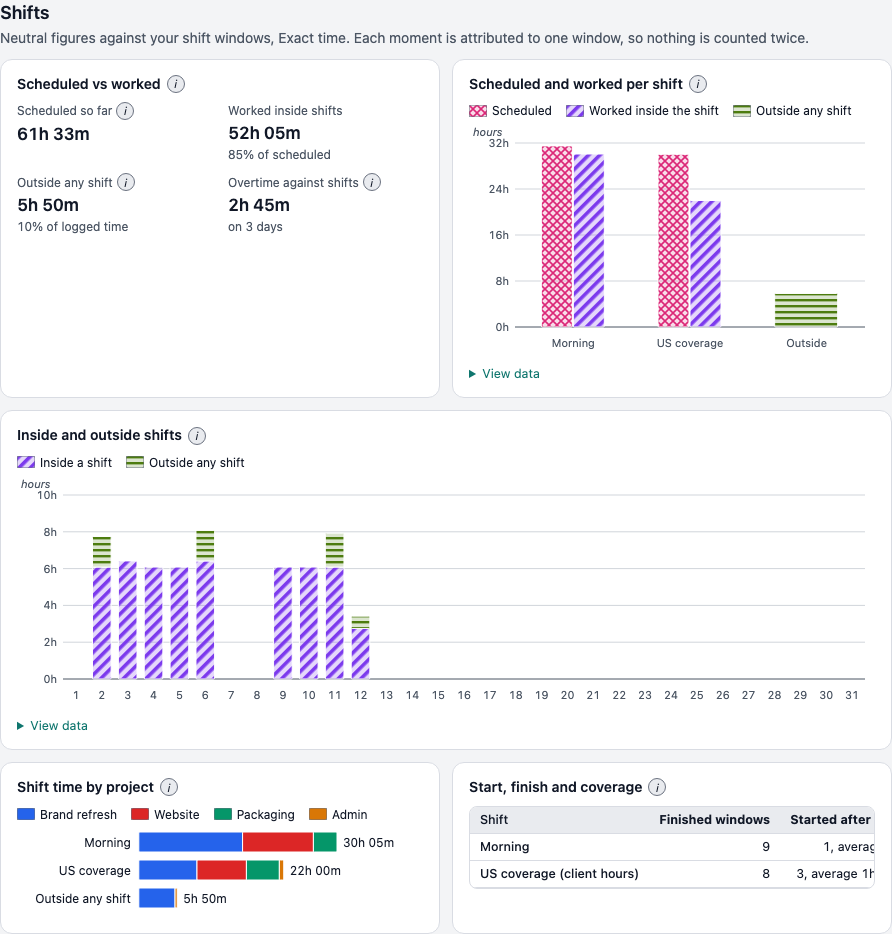
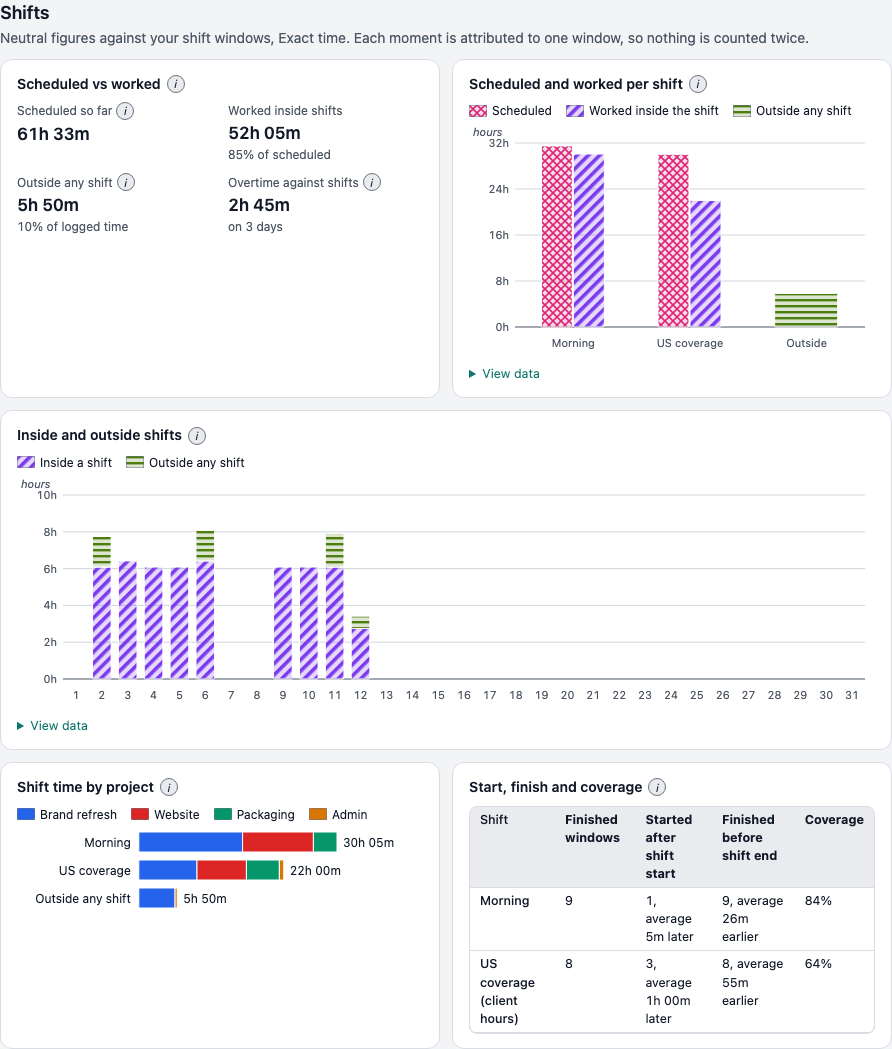
fix(analysis): make the map, pause chart and shift table readable
The map highlight is sampled at screen resolution and clipped to country
outlines. A pause is now a same-day gap, so the chart stays readable. Shift
change text respects the given clock, and screenshots stay out of evidence
folders unless ZWT_SHOT_DIR is set.

diff --git a/src/features/zones/maskDraw.ts b/src/features/zones/maskDraw.ts
@@ -1,9 +1,8 @@
 // Paints the zone highlights onto the map's canvas. Over land the colour is strong; over open water the
-// zone's (coarse) boundary tiles are only tinted, so they read as an area rather than as blocks.
-import { UNITS_PER_DEG } from './geo';
-import { GRID_NX, GRID_NY, GRID_STEP, type ZoneGrid } from './grid';
+// zone is only tinted. The mask is always sampled at screen resolution (never from the 0.5 degree grid),
+// so edges follow the real zone borders at every zoom instead of showing coarse squares.
 import { sampleZoneMask } from './sample';
-import { baseScale, geoToScreen, screenToGeo, type View } from './viewport';
+import { baseScale, type View } from './viewport';
 
 export interface MaskSpec {
   zone: string | null;
@@ -17,14 +16,15 @@ export interface PaintArgs {
   size: { w: number; h: number };
   dpr: number;
   view: View;
-  grid: ZoneGrid | null;
   land: Path2D | null;
   masks: readonly MaskSpec[];
 }
 
-/** From this zoom on, masks are sampled at screen resolution instead of read from the 0.5 degree grid. */
-export const SAMPLE_FROM_K = 3;
-const SAMPLE_STEP = 2;
+/** Sample spacing in CSS pixels: fine when zoomed in, a little coarser at world view to bound the per-frame cost. */
+/** Below this much land (CSS px squared) in view, the zone also gets its sea tint so it stays visible. */
+const MIN_LAND_AREA = 60;
+
+const sampleStep = (k: number): number => (k >= 2 ? 2 : 3);
 
 function newCanvas(w: number, h: number): HTMLCanvasElement {
   const c = document.createElement('canvas');
@@ -34,68 +34,49 @@ function newCanvas(w: number, h: number): HTMLCanvasElement {
 }
 
 export class MaskPainter {
-  private readonly gridLayers = new Map<string, HTMLCanvasElement>();
   private stencil: HTMLCanvasElement | null = null;
   private scratch: HTMLCanvasElement | null = null;
+  private clipped: HTMLCanvasElement | null = null;
+  private probe: HTMLCanvasElement | null = null;
   private sampled: HTMLCanvasElement | null = null;
 
-  clearCache(): void {
-    this.gridLayers.clear();
-  }
-
-  private gridLayer(grid: ZoneGrid, zone: string, color: string): HTMLCanvasElement | null {
-    const key = `${zone}|${color}`;
-    const hit = this.gridLayers.get(key);
-    if (hit) return hit;
-    const mask = grid.maskFor(zone);
-    if (!mask) return null;
-    const off = newCanvas(GRID_NX, GRID_NY);
-    const ctx = off.getContext('2d');
-    if (!ctx) return null;
-    ctx.putImageData(new ImageData(mask, GRID_NX, GRID_NY), 0, 0);
-    ctx.globalCompositeOperation = 'source-in';
-    ctx.fillStyle = color;
-    ctx.fillRect(0, 0, GRID_NX, GRID_NY);
-    const oldest = this.gridLayers.keys().next();
-    if (this.gridLayers.size >= 16 && !oldest.done) this.gridLayers.delete(oldest.value);
-    this.gridLayers.set(key, off);
-    return off;
+  /** Approximate painted area of `layer` in CSS pixels, measured on a copy shrunk four times. */
+  private landArea(layer: HTMLCanvasElement, dpr: number): number {
+    const w = Math.max(1, Math.ceil(layer.width / 4));
+    const h = Math.max(1, Math.ceil(layer.height / 4));
+    this.probe ??= newCanvas(w, h);
+    if (this.probe.width !== w) this.probe.width = w;
+    if (this.probe.height !== h) this.probe.height = h;
+    const pctx = this.probe.getContext('2d', { willReadFrequently: true });
+    if (!pctx) return Infinity;
+    pctx.setTransform(1, 0, 0, 1, 0, 0);
+    pctx.clearRect(0, 0, w, h);
+    pctx.drawImage(layer, 0, 0, w, h);
+    const px = pctx.getImageData(0, 0, w, h).data;
+    let alpha = 0;
+    for (let i = 3; i < px.length; i += 4) alpha += px[i] as number;
+    return (alpha / 255) * (16 / (dpr * dpr));
   }
 
   /** Draws the zone into `scratch` (CSS-pixel coordinates). Returns false when nothing could be drawn. */
   private drawZone(ctx: CanvasRenderingContext2D, a: PaintArgs, zone: string, color: string): boolean {
     const { size, view } = a;
+    const step = sampleStep(view.k);
     ctx.imageSmoothingEnabled = true;
     ctx.imageSmoothingQuality = 'high';
-    if (view.k >= SAMPLE_FROM_K) {
-      const m = sampleZoneMask(zone, view, size, SAMPLE_STEP);
-      this.sampled ??= newCanvas(m.w, m.h);
-      if (this.sampled.width !== m.w) this.sampled.width = m.w;
-      if (this.sampled.height !== m.h) this.sampled.height = m.h;
-      const sctx = this.sampled.getContext('2d');
-      if (!sctx) return false;
-      sctx.globalCompositeOperation = 'source-over';
-      sctx.clearRect(0, 0, m.w, m.h);
-      sctx.putImageData(new ImageData(m.data, m.w, m.h), 0, 0);
-      sctx.globalCompositeOperation = 'source-in';
-      sctx.fillStyle = color;
-      sctx.fillRect(0, 0, m.w, m.h);
-      ctx.drawImage(this.sampled, 0, 0, m.w, m.h, 0, 0, m.w * SAMPLE_STEP, m.h * SAMPLE_STEP);
-      return true;
-    }
-    if (!a.grid) return false;
-    const layer = this.gridLayer(a.grid, zone, color);
-    if (!layer) return false;
-    const tl = screenToGeo(view, size.w, 0, 0);
-    const br = screenToGeo(view, size.w, size.w, size.h);
-    const c0 = Math.max(0, Math.floor((tl.lon + 180) / GRID_STEP) - 1);
-    const c1 = Math.min(GRID_NX, Math.ceil((br.lon + 180) / GRID_STEP) + 1);
-    const r0 = Math.max(0, Math.floor((90 - tl.lat) / GRID_STEP) - 1);
-    const r1 = Math.min(GRID_NY, Math.ceil((90 - br.lat) / GRID_STEP) + 1);
-    if (c1 <= c0 || r1 <= r0) return false;
-    const origin = geoToScreen(view, size.w, 90 - r0 * GRID_STEP, -180 + c0 * GRID_STEP);
-    const cell = GRID_STEP * UNITS_PER_DEG * baseScale(size.w) * view.k;
-    ctx.drawImage(layer, c0, r0, c1 - c0, r1 - r0, origin.x, origin.y, (c1 - c0) * cell, (r1 - r0) * cell);
+    const m = sampleZoneMask(zone, view, size, step);
+    this.sampled ??= newCanvas(m.w, m.h);
+    if (this.sampled.width !== m.w) this.sampled.width = m.w;
+    if (this.sampled.height !== m.h) this.sampled.height = m.h;
+    const sctx = this.sampled.getContext('2d');
+    if (!sctx) return false;
+    sctx.globalCompositeOperation = 'source-over';
+    sctx.clearRect(0, 0, m.w, m.h);
+    sctx.putImageData(new ImageData(m.data, m.w, m.h), 0, 0);
+    sctx.globalCompositeOperation = 'source-in';
+    sctx.fillStyle = color;
+    sctx.fillRect(0, 0, m.w, m.h);
+    ctx.drawImage(this.sampled, 0, 0, m.w, m.h, 0, 0, m.w * step, m.h * step);
     return true;
   }
 
@@ -146,15 +127,32 @@ export class MaskPainter {
       sctx.clearRect(0, 0, pw, ph);
       sctx.setTransform(dpr, 0, 0, dpr, 0, 0);
       if (!this.drawZone(sctx, a, m.zone, m.color)) continue;
-      ctx.globalAlpha = m.seaAlpha;
-      ctx.drawImage(this.scratch, 0, 0);
-      if (stencil) {
-        sctx.setTransform(1, 0, 0, 1, 0, 0);
-        sctx.globalCompositeOperation = 'destination-in';
-        sctx.drawImage(stencil, 0, 0);
-        ctx.globalAlpha = m.landAlpha;
+      if (!stencil) {
+        ctx.globalAlpha = m.seaAlpha;
+        ctx.drawImage(this.scratch, 0, 0);
+        continue;
+      }
+      // The zone data is coarse over open water, so the highlight is clipped to the country outlines.
+      // Only a zone with (almost) no land in view, such as a small island group, keeps a faint sea tint.
+      this.clipped ??= newCanvas(pw, ph);
+      if (this.clipped.width !== pw || this.clipped.height !== ph) {
+        this.clipped.width = pw;
+        this.clipped.height = ph;
+      }
+      const cctx = this.clipped.getContext('2d');
+      if (!cctx) continue;
+      cctx.setTransform(1, 0, 0, 1, 0, 0);
+      cctx.globalCompositeOperation = 'source-over';
+      cctx.clearRect(0, 0, pw, ph);
+      cctx.drawImage(this.scratch, 0, 0);
+      cctx.globalCompositeOperation = 'destination-in';
+      cctx.drawImage(stencil, 0, 0);
+      if (this.landArea(this.clipped, dpr) < MIN_LAND_AREA) {
+        ctx.globalAlpha = m.seaAlpha;
         ctx.drawImage(this.scratch, 0, 0);
       }
+      ctx.globalAlpha = m.landAlpha;
+      ctx.drawImage(this.clipped, 0, 0);
     }
     ctx.globalAlpha = 1;
   }

diff --git a/src/features/analysis/glossary.ts b/src/features/analysis/glossary.ts
@@ -73,10 +73,10 @@ export const GLOSSARY: readonly GlossaryEntry[] = [
   g('focus.dist', 'Session-length distribution', 'Focus', 'Exact', 'How many sessions fall into each length range, stacked by project.', 'count of sessions per range'),
   g('focus.streak', 'Longest uninterrupted stretch', 'Focus', 'Exact', 'The longest run of logged time with no gap between sessions (sessions at most one second apart join up, even across tasks).', 'longest merged run of sessions'),
   g('focus.pausedTime', 'Paused time', 'Focus', 'Exact',
-    'The gap between consecutive segments of one task, plus the last segment\'s end to the task\'s stop time. A task that is still paused has an open gap, which is not counted. Overnight and weekend gaps between sessions of the same task count too. A pause belongs to the day it began.',
-    'gap = next start - previous end'),
-  g('focus.pauses', 'Pauses', 'Focus', 'Exact', 'Number, total and average length of paused-time gaps that began in the period, and pauses per task with sessions in the period.', 'count, sum and mean of gaps'),
-  g('focus.ratio', 'Focus ratio', 'Focus', 'Exact', 'Worked time as a share of worked plus paused time. It measures logged time, not output.', 'worked / (worked + paused)'),
+    'The gap between consecutive segments of one task, plus the last segment\'s end to the task\'s stop time, when the gap begins and ends on the same calendar day in the zone you are viewing. Gaps that cross midnight (overnight, weekend or multi-day breaks between sessions) are not pauses and are left out of every figure. A task that is still paused has an open gap, which is not counted. A pause belongs to the day it began.',
+    'gap = next start - previous end, kept only when both fall on one calendar day'),
+  g('focus.pauses', 'Pauses', 'Focus', 'Exact', 'Number, total and average length of same-day paused-time gaps that began in the period, and pauses per task with sessions in the period.', 'count, sum and mean of gaps'),
+  g('focus.ratio', 'Focus ratio', 'Focus', 'Exact', 'Worked time as a share of worked plus paused time, where paused time is same-day pauses only (overnight and multi-day gaps are excluded). It measures logged time, not output.', 'worked / (worked + paused)'),
   g('focus.switches', 'Context switches', 'Focus', 'Exact', 'Within one day, a session on a different task from the one before it. Resuming the same task is not a switch.', 'count of consecutive sessions on different tasks, per day'),
   g('focus.fragmentation', 'Fragmentation', 'Focus', 'Exact', 'Share of logged time that sits in sessions shorter than 25 minutes.', 'time in sessions under 25 min / total'),
 

diff --git a/src/lib/foundation.test.ts b/src/lib/foundation.test.ts
@@ -1,4 +1,4 @@
-import { describe, expect, it } from 'vitest';
+import { afterEach, describe, expect, it, vi } from 'vitest';
 
 import { contrast, luminance, readableText, suggestColor, PROJECT_PALETTE } from './color';
 import { BANDS, BandClock, splitAll, type Seg } from './split';
@@ -207,5 +207,24 @@ describe('theme token contrast table', () => {
       if (rising) expect(ls[i]!).toBeGreaterThan(ls[i - 1]!);
       else expect(ls[i]!).toBeLessThan(ls[i - 1]!);
     }
+  });
+});
+
+describe('shiftText tense follows the clock it is given', () => {
+  afterEach(() => vi.useRealTimers());
+  const [spring] = shiftsBetween(parseIso('2026-01-01T00:00:00Z'), parseIso('2027-01-01T00:00:00Z'), 'Europe/Lisbon');
+
+  it('says "go forward" for a future change and "went forward" for a past one under a frozen clock', () => {
+    expect(toIso(spring!.at)).toBe('2026-03-29T01:00:00Z');
+    vi.useFakeTimers({ now: new Date('2026-03-12T15:20:00Z') });
+    expect(shiftText(spring!)).toBe('Lisbon clocks go forward 1h, 29 Mar');
+    vi.setSystemTime(new Date('2026-04-02T00:00:00Z'));
+    expect(shiftText(spring!)).toBe('Lisbon clocks went forward 1h, 29 Mar');
+  });
+
+  it('uses the passed clock rather than the system clock', () => {
+    vi.useFakeTimers({ now: new Date('2030-01-01T00:00:00Z') }); // system clock says it is long past
+    expect(shiftText(spring!, parseIso('2026-03-12T15:20:00Z'))).toBe('Lisbon clocks go forward 1h, 29 Mar');
+    expect(shiftText(spring!, parseIso('2026-03-30T00:00:00Z'))).toBe('Lisbon clocks went forward 1h, 29 Mar');
   });
 });

diff --git a/src/features/analysis/analysis.css b/src/features/analysis/analysis.css
@@ -131,6 +131,19 @@
 .a-data { margin-top: 10px; font-size: 12.5px; }
 .a-data summary { cursor: pointer; color: var(--accent); }
 .a-table-wrap { overflow: auto; max-height: 320px; margin-top: 6px; border: 1px solid var(--border); border-radius: 8px; }
+.a-table-wrap {
+  /* Edge shadows appear only on a side that has more to scroll to: a visible cue that the table moves. */
+  background:
+    linear-gradient(to right, var(--surface) 30%, transparent) left center / 24px 100% no-repeat local,
+    linear-gradient(to left, var(--surface) 30%, transparent) right center / 24px 100% no-repeat local,
+    linear-gradient(to right, color-mix(in srgb, var(--text) 28%, transparent), transparent) left center / 10px 100% no-repeat scroll,
+    linear-gradient(to left, color-mix(in srgb, var(--text) 28%, transparent), transparent) right center / 10px 100% no-repeat scroll;
+}
+.a-table-wrap:focus-visible { outline: 2px solid var(--focus); outline-offset: 1px; }
+/* The shift table has long text cells: let them wrap so it fits at the normal window width. */
+.a-table-fit .a-table th, .a-table-fit .a-table td { white-space: normal; vertical-align: top; }
+.a-table-fit .a-table td { text-align: left; }
+.a-table-fit .a-table thead th { text-align: left; }
 .a-table { border-collapse: collapse; width: 100%; font-size: 12.5px; }
 .a-table th, .a-table td { padding: 4px 10px; text-align: right; border-bottom: 1px solid var(--border); }
 .a-table th { white-space: nowrap; }

diff --git a/src/features/analysis/metrics.test.ts b/src/features/analysis/metrics.test.ts
@@ -162,16 +162,19 @@ describe('focus and sessions', () => {
     expect(f.streak?.secs).toBe(14400);
   });
 
-  it('pauses follow the gap rule and a still-paused task has no open gap', () => {
+  it('only same-day gaps count as pauses; overnight and multi-day gaps are breaks', () => {
     const f = run().focus;
-    // t1: 600 + 74400 + 176400 + 3600 (last end 13:10 to stop 14:10); t3: Mon 15:00 -> Sat 10:00 = 414000.
-    expect(f.pauseCount).toBe(5);
-    expect(f.pauseSecs).toBe(669000);
-    expect(f.pauseAvg).toBe(133800);
-    expect(f.pausesPerTask).toBe(5 / 4);
-    expect(f.focusRatio).toBeCloseTo(36000 / (36000 + 669000));
+    // Counted: t1 Mon 10:30 -> 10:40 = 600 and t1 Thu 13:10 -> stop 14:10 = 3600.
+    // Not counted: t1 Mon 11:20 -> Tue 08:00 (74400), t1 Tue 12:00 -> Thu 13:00 (176400), t3 Mon 15:00 -> Sat 10:00 (414000).
+    expect(f.pauseCount).toBe(2);
+    expect(f.pauseSecs).toBe(4200);
+    expect(f.pauseAvg).toBe(2100);
+    expect(f.pausesPerTask).toBe(2 / 4);
+    expect(f.focusRatio).toBeCloseTo(36000 / (36000 + 4200));
     const mon = f.daily[0];
-    expect(mon?.paused).toBe(600 + 74400 + 414000);
+    expect(mon?.paused).toBe(600);
+    // No day can show more paused time than it has hours.
+    for (const d of f.daily) expect(d.paused).toBeLessThanOrEqual(86400);
   });
 
   it('context switches count task changes inside a day', () => {

diff --git a/src/features/analysis/engine.ts b/src/features/analysis/engine.ts
@@ -593,7 +593,8 @@ function mergeAdditive(a: Additive, b: Additive): Additive {
 
 /**
  * Paused time: the gap between consecutive segments of one task, plus the last segment's end to
- * the task's stop time. A task that is still paused has an open gap, which is not counted.
+ * the task's stop time. A task that is still paused has an open gap, which is not counted. This returns
+ * every gap; `gapsFor` keeps only those that begin and end on one calendar day in the viewing zone.
  */
 export function pauseGaps(snapshot: Snapshot): Gap[] {
   const byTask = new Map<string, Seg[]>();
@@ -629,6 +630,9 @@ function gapsFor(snapshot: Snapshot, env: Env): Gap[] {
   const out: Gap[] = [];
   for (const g of cachedGaps(snapshot)) {
     if (g.start < from || g.start >= to) continue;
+    // A pause counts only when it begins and ends on the same calendar day in the viewing zone.
+    // Overnight, weekend and multi-day gaps between sessions are breaks, not pauses.
+    if (dayOfInstant(g.start, env.zone) !== dayOfInstant(g.end - 1, env.zone)) continue;
     if (proj && !proj.has(g.projectId)) continue;
     if (task && !task.has(g.taskId)) continue;
     if (f.band !== null) {

diff --git a/src/features/zones/WorldMap.tsx b/src/features/zones/WorldMap.tsx
@@ -99,7 +99,6 @@ function WorldMap({ selected, preview, myZone, clientZone, nowSec, onPick, onHov
   // Theme changes recolour the canvas masks; the SVG follows the CSS variables on its own.
   useEffect(() => {
     const mo = new MutationObserver(() => {
-      painter.current?.clearCache();
       setThemeTick((t) => t + 1);
     });
     mo.observe(document.documentElement, { attributes: true, attributeFilter: ['data-theme'] });
@@ -146,7 +145,6 @@ function WorldMap({ selected, preview, myZone, clientZone, nowSec, onPick, onHov
       size,
       dpr: window.devicePixelRatio || 1,
       view,
-      grid,
       land,
       masks: [
         { zone: selected, color: color('--map-selected', '#0f766e'), landAlpha: 0.6, seaAlpha: 0.2 },
@@ -154,7 +152,7 @@ function WorldMap({ selected, preview, myZone, clientZone, nowSec, onPick, onHov
       ],
     });
     canvas.dataset.paintMs = (performance.now() - started).toFixed(1);
-  }, [grid, land, size, view, selected, highlight, themeTick]);
+  }, [land, size, view, selected, highlight, themeTick]);
 
   const pins = useMemo<Pin[]>(() => {
     const out: Pin[] = [];

diff --git a/e2e/zones.spec.ts b/e2e/zones.spec.ts
@@ -2,8 +2,9 @@ import path from 'node:path';
 
 import { expect, test, type Locator, type Page } from '@playwright/test';
 
+import { SHOTS } from './support';
+
 // The demo seed: My zone Lisbon, Client zone New York, 12 March 2026 (US clocks forward, EU not yet).
-const SHOTS = process.env.ZONE_SHOTS_DIR ?? path.resolve(import.meta.dirname, '../../.stack/out/rust-expert');
 const THEMES = [
   ['light', 'light'],
   ['solarizedLight', 'solarized-light'],
@@ -198,7 +199,7 @@ test.describe('zone bar and picker', () => {
     const dialog = await openPicker(page);
     const notices = dialog.getByTestId('zone-notices');
     await expect(notices).toContainText('My zone · Lisbon, WET, UTC+0');
-    await expect(notices).toContainText(/Lisbon clocks (go|went) forward 1h, 29 Mar/);
+    await expect(notices).toContainText('Lisbon clocks go forward 1h, 29 Mar');
     await expect(notices).toContainText('Client zone · New York, EDT, UTC-4');
     await expect(notices).toContainText('Now: New York is 4h behind Lisbon');
     await expect(notices).toContainText('New York is 5h behind Lisbon from 29 Mar');

diff --git a/src/features/analysis/SectionsB.tsx b/src/features/analysis/SectionsB.tsx
@@ -92,7 +92,7 @@ export function Focus({ env }: { env: SecEnv }) {
         info="focus.pausedTime"
         openGlossary={env.openGlossary}
         wide
-        note="A pause counts from the end of one segment of a task to the start of its next, so overnight gaps between sessions of the same task are included; a pause belongs to the day it began."
+        note="A pause is the gap between two segments of the same task that begins and ends on the same calendar day. Gaps that cross midnight (overnight, weekend or multi-day breaks) are not counted."
         data={{ caption: 'Worked and paused time', columns: ['Period', 'Worked', 'Paused'], rows: fo.labels.map((l, i) => [l, fmtHMS(fo.worked[i] as number), fmtHMS(fo.paused[i] as number)]) }}
       >
         <Legend items={[{ key: 'w', label: 'Worked', concept: 'worked' }, { key: 'p', label: 'Paused', concept: 'paused' }]} />

diff --git a/src/lib/tz.ts b/src/lib/tz.ts
@@ -235,11 +235,14 @@ export function humanSpan(secs: number): string {
   return `${m}m`;
 }
 
-/** "New York clocks went forward 1h, 8 Mar". */
-export function shiftText(change: OffsetChange): string {
+/**
+ * "New York clocks went forward 1h, 8 Mar", or "go forward" when the change is after `nowSec`. Pass the
+ * app's own clock; the default is the system clock.
+ */
+export function shiftText(change: OffsetChange, nowSec: number = Date.now() / 1000): string {
   const w = wallAt(change.at, change.zone);
   const dir = change.deltaSecs > 0 ? 'forward' : 'back';
-  const verb = change.at > Date.now() / 1000 ? 'go' : 'went';
+  const verb = change.at > nowSec ? 'go' : 'went';
   return `${cityOf(change.zone)} clocks ${verb} ${dir} ${humanSpan(change.deltaSecs)}, ${w.date} ${MONTHS[w.month - 1]}`;
 }
 

diff --git a/e2e/launch.spec.ts b/e2e/launch.spec.ts
@@ -2,11 +2,10 @@ import path from 'node:path';
 
 import { expect, test, type Page } from '@playwright/test';
 
-import { advance, card, expectClean, open, refresh, tab } from './support';
+import { SHOTS, advance, card, expectClean, open, refresh, tab } from './support';
 
 // Warm and cold launches, cold Resume, and editing a task at any time. The mock backend is the one in
 // src/mocks: real behaviour of the Rust side is covered by its own tests and the native smoke script.
-const SHOTS = process.env.APP_SHOTS_DIR ?? path.resolve(import.meta.dirname, '../../.stack/out/rust-expert');
 const THEMES = [
   ['light', 'light'],
   ['solarizedLight', 'solarized-light'],

diff --git a/e2e/support.ts b/e2e/support.ts
@@ -1,6 +1,14 @@
+import path from 'node:path';
+
 import { expect, type Locator, type Page } from '@playwright/test';
 
 import type { MockState } from '../src/mocks/ipcMock';
+
+/**
+ * Where screenshots go: the ignored test-results folder, so a normal test run never touches reviewed
+ * evidence. Set ZWT_SHOT_DIR to write them somewhere else on purpose, such as the docs folder.
+ */
+export const SHOTS = process.env.ZWT_SHOT_DIR ?? path.resolve(import.meta.dirname, '../test-results/screenshots');
 
 // The demo seed: 12 March 2026 15:20 UTC, My zone Lisbon, Client zone New York.
 export const DEMO_NOW = '2026-03-12T15:20:00Z';
